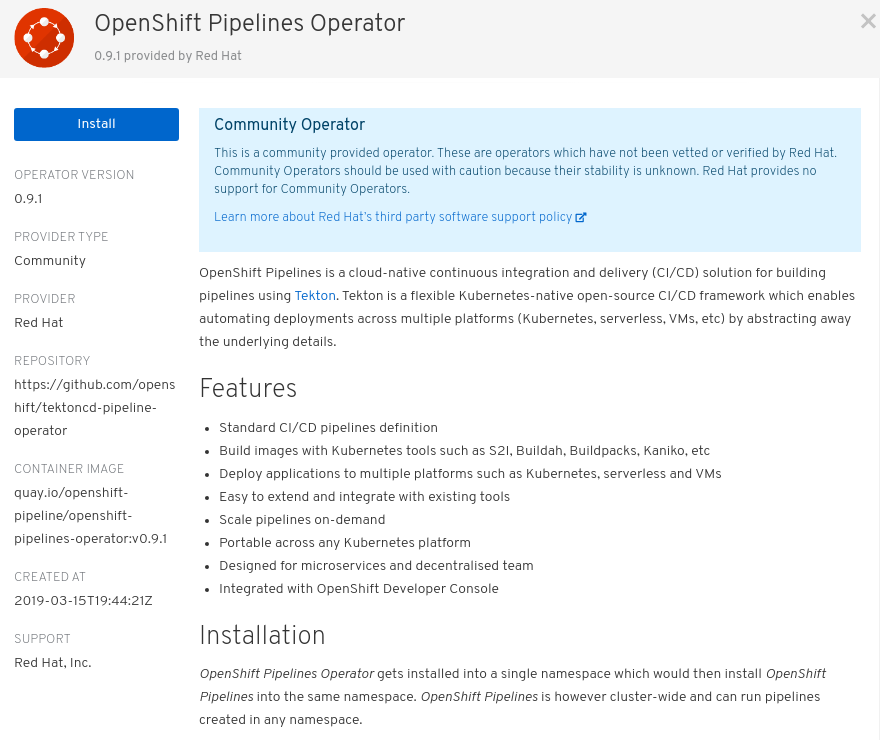
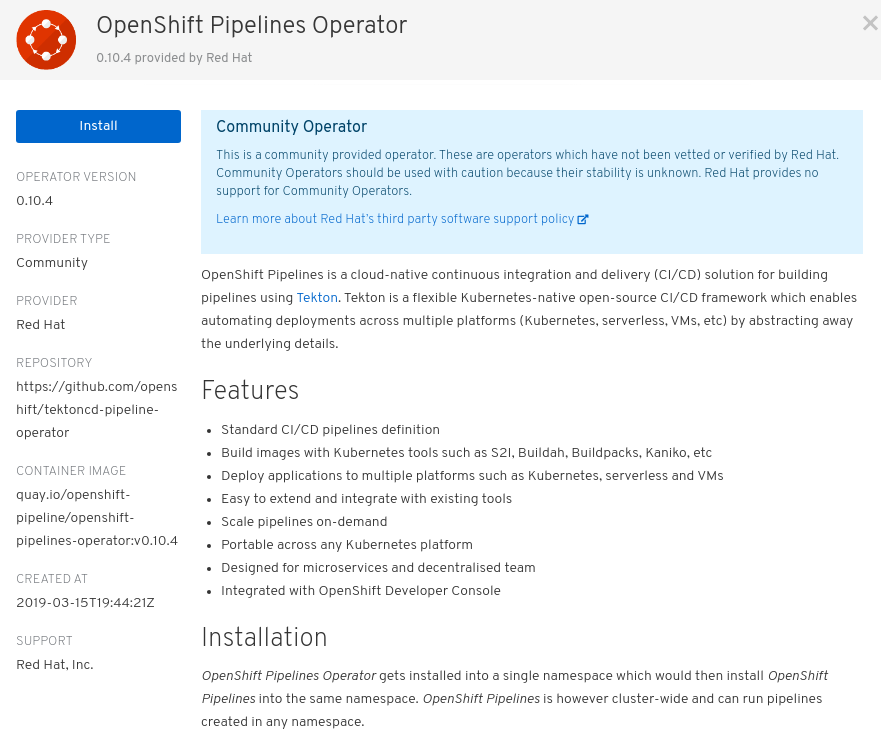
Update tutorial for v0.10.x

diff --git a/README.md b/README.md
@@ -145,31 +145,29 @@ We will be using `buildah` and`s2i-python-3` tasks also which gets installed alo
 
 ```
 $ tkn clustertask ls
-NAME                      AGE
-buildah                   2 minutes ago
-buildah-v0-8-0            2 minutes ago
-buildah-v0-9-0            2 minutes ago
-openshift-client          2 minutes ago
-openshift-client-v0-8-0   2 minutes ago
-openshift-client-v0-9-0   2 minutes ago
-s2i                       2 minutes ago
-s2i-go                    2 minutes ago
-s2i-go-v0-8-0             2 minutes ago
-s2i-go-v0-9-0             2 minutes ago
-s2i-java-11               2 minutes ago
-s2i-java-11-v0-8-0        2 minutes ago
-s2i-java-11-v0-9-0        2 minutes ago
-s2i-java-8                2 minutes ago
-s2i-java-8-v0-8-0         2 minutes ago
-s2i-java-8-v0-9-0         2 minutes ago
-s2i-nodejs                2 minutes ago
-s2i-nodejs-v0-8-0         2 minutes ago
-s2i-nodejs-v0-9-0         2 minutes ago
-s2i-python-3              2 minutes ago
-s2i-python-3-v0-8-0       2 minutes ago
-s2i-python-3-v0-9-0       2 minutes ago
-s2i-v0-8-0                2 minutes ago
-s2i-v0-9-0                2 minutes ago
+NAME                       AGE
+buildah                    4 minutes ago
+buildah-v0-10-0            4 minutes ago
+openshift-client           4 minutes ago
+openshift-client-v0-10-0   4 minutes ago
+s2i                        4 minutes ago
+s2i-go                     4 minutes ago
+s2i-go-v0-10-0             4 minutes ago
+s2i-java-11                4 minutes ago
+s2i-java-11-v0-10-0        4 minutes ago
+s2i-java-8                 4 minutes ago
+s2i-java-8-v0-10-0         4 minutes ago
+s2i-nodejs                 4 minutes ago
+s2i-nodejs-v0-10-0         4 minutes ago
+s2i-perl                   4 minutes ago
+s2i-perl-v0-10-0           4 minutes ago
+s2i-php                    4 minutes ago
+s2i-php-v0-10-0            4 minutes ago
+s2i-python-3               4 minutes ago
+s2i-python-3-v0-10-0       4 minutes ago
+s2i-ruby                   4 minutes ago
+s2i-ruby-v0-10-0           4 minutes ago
+s2i-v0-10-0                4 minutes ago
 ```
 
 ## Create Pipeline
@@ -422,11 +420,10 @@ $ tkn pipeline start build-and-deploy
 ? Choose the git resource to use for ui-repo: ui-repo (http://github.com/openshift-pipelines/vote-ui.git)
 ? Choose the image resource to use for ui-image: ui-image (image-registry.openshift-image-registry.svc:5000/pipelines-tutorial/ui:latest)
 Pipelinerun started: build-and-deploy-run-z2rz8
-Showing logs...
 
+In order to track the pipelinerun progress run:
+tkn pipelinerun logs build-and-deploy-run-z2rz8 -f -n pipelines-tutorial
 ```
-
-And it will start streaming the logs of the pipeline we just trigered.
 
 As soon as you start the `build-and-deploy` pipeline, a pipelinerun will be instantiated and pods will be created to execute the tasks that are defined in the pipeline.
 

diff --git a/install-operator.md b/install-operator.md
@@ -26,10 +26,8 @@ After clicking **Subscribe**, you will be taken to the **Installed Operators** p
 
 ![OpenShift Pipelines Operator 3](images/operator-install-3.png)
 
-Click on **OpenShift Pipelines Operator** under the `Name` column and then click on **Create Instance**:
+That's all. The operator now installs OpenShift Pipelines on the cluster.
+
+You can confirm the following by checking tekton-pipelines and tekton-triggers pods with `Running` state in `openshift-pipelines` namespace. If so, openshift-pielines have been installed on your cluster.
 
 ![OpenShift Pipelines Operator 4](images/operator-install-4.png)
-
-Leave the default values in the **Create Config** editor and click **Create**.
-
-That's all. The operator now installs OpenShift Pipelines on the cluster.
